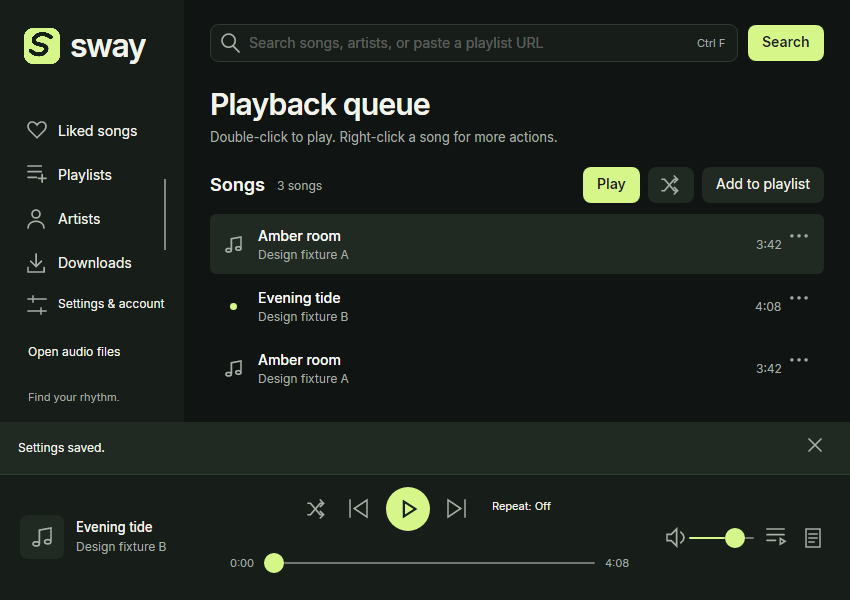
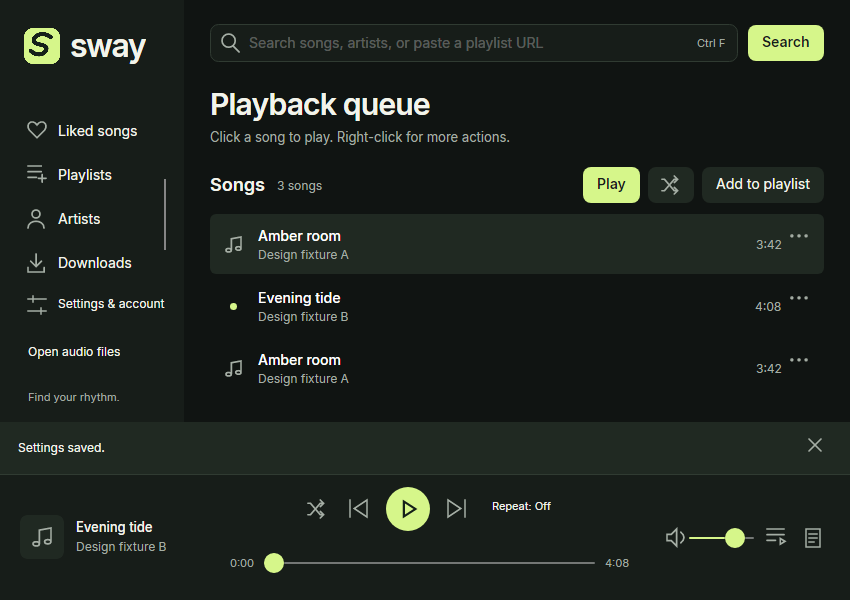
singel click

Changed region(s): [[0.2447, 0.21, 0.6729, 0.24]]

diff --git a/tests/SwayMusic.Tests/ArtistUiTests.cs b/tests/SwayMusic.Tests/ArtistUiTests.cs
@@ -22,14 +22,36 @@ internal static class ArtistUiTests
         try
         {
             window.Show(); Await(model.InitializeAsync()); window.Width = 1280; window.Height = 800; Flush();
-            model.Tracks.Add(new(new Track("song-before", "Song before navigation", "Fixture Artist", Artists: [new("Fixture Artist", "UC_fixture")])));
+            model.Tracks.Add(new(new Track("song-before-click", "Song before navigation", "Fixture Artist", Artists: [new("Fixture Artist", "UC_fixture")])));
             Flush();
+            var tracks = window.FindControl<ListBox>("TrackList")!;
+            tracks.SelectedIndex = 0; Flush();
+            Check(model.Player.Queue.Count == 0, "selection alone does not start playback");
+            var action = tracks.GetVisualDescendants().OfType<Button>().First(button => button.Tag is TrackRow);
+            Click(window, action);
+            Check(model.Player.Queue.Count == 0, "song action button does not start playback");
+            tracks.ContextMenu!.Close(); Flush();
+            Click(window, tracks.GetVisualDescendants().OfType<TextBlock>().First(text => text.Text == "Song before navigation"), MouseButton.Right);
+            Check(model.Player.Queue.Count == 0, "right-clicking a song opens actions without starting playback");
+            tracks.ContextMenu.Close(); Flush();
+            Click(window, tracks.GetVisualDescendants().OfType<TextBlock>().First(text => text.Text == "Song before navigation"));
+            try { Await(((AsyncCommand)model.PlaySelectedCommand).RunningTask); } catch (ArgumentException) { }
+            Check(model.Player.CurrentTrack?.Id == "song-before-click", "one click on a song starts that song");
+            model.Player.RestoreQueue([]); Flush();
             var link = window.FindControl<ListBox>("TrackList")!.GetVisualDescendants().OfType<Button>()
                 .First(button => button.Tag is ArtistReference { Id: "UC_fixture" });
             Click(window, link); Wait(() => model.IsArtistPage && !model.Busy);
             Check(model.PageTitle == "Fixture Artist" && model.HasArtistDescription && model.ArtistStats.Contains("monthly listeners"), "artist link opens the detailed artist profile");
             Check(handler.SearchCount == 0 && model.Player.Queue.Count == 0, "artist link uses its ID without searching or starting playback");
             Check(model.Tracks.Count == 3 && model.HasArtistCatalog, "artist page shows songs and browsable releases");
+            Click(window, window.FindControl<ListBox>("ArtistTrackList")!.GetVisualDescendants().OfType<TextBlock>().First(text => text.Text == "Second song"));
+            try { Await(((AsyncCommand)model.PlaySelectedCommand).RunningTask); } catch (ArgumentException) { }
+            Check(model.Player.Queue.Count == 3 && model.Player.CurrentIndex == 1, "one click on an artist song starts the clicked row in its collection");
+            Click(window, window.FindControl<ListBox>("QueueList")!.GetVisualDescendants().OfType<TextBlock>().First(text => text.Text == "Third song"));
+            Await(model.Player.StopAsync());
+            Check(model.Player.Queue.Count == 3 && model.Player.CurrentIndex == 2, "one click in the queue starts that entry without replacing the queue");
+            model.Player.RestoreQueue([]); Flush();
+            model.DismissStatusCommand.Execute(null); Flush();
             Wait(() => model.ArtistArtwork is not null);
             Check(model.ArtistCatalog[0].Artwork is null, "catalog artwork stays deferred until the releases tab opens");
             Capture(window, "sway-artist-profile.png");
@@ -69,11 +91,11 @@ internal static class ArtistUiTests
         while (!condition()) { if (time.Elapsed.TotalSeconds > 15) throw new TimeoutException("Artist UI did not complete"); Flush(); Thread.Sleep(1); }
         Flush();
     }
-    private static void Click(Window window, Control control)
+    private static void Click(Window window, Control control, MouseButton button = MouseButton.Left)
     {
         control.BringIntoView(); Flush();
         var point = control.TranslatePoint(new Point(control.Bounds.Width / 2, control.Bounds.Height / 2), window)!.Value;
-        window.MouseMove(point, RawInputModifiers.None); window.MouseDown(point, MouseButton.Left, RawInputModifiers.None); window.MouseUp(point, MouseButton.Left, RawInputModifiers.None); Flush();
+        window.MouseMove(point, RawInputModifiers.None); window.MouseDown(point, button, RawInputModifiers.None); window.MouseUp(point, button, RawInputModifiers.None); Flush();
     }
     private static void Capture(Window window, string name)
     {

diff --git a/src/SwayMusic.Desktop/MainWindow.axaml.cs b/src/SwayMusic.Desktop/MainWindow.axaml.cs
@@ -80,9 +80,18 @@ public partial class MainWindow : Window
     {
         if (args.Key == Key.Enter) { _viewModel.SearchCommand.Execute(null); args.Handled = true; }
     }
-    private void TrackDoubleTapped(object? sender, TappedEventArgs args)
+    private static TrackRow? TappedSong(object? sender, TappedEventArgs args)
     {
-        if (args.Source is Control control && (control is Button || control.GetVisualAncestors().OfType<Button>().Any())) return;
+        if (sender is not ListBox list || args.Source is not Control source) return null;
+        if (source is Button || source.GetVisualAncestors().OfType<Button>().Any()) return null;
+        var item = source as ListBoxItem ?? source.GetVisualAncestors().OfType<ListBoxItem>().FirstOrDefault();
+        return item?.DataContext is TrackRow row && list.Items.Contains(row) ? row : null;
+    }
+    private void TrackTapped(object? sender, TappedEventArgs args)
+    {
+        if (TappedSong(sender, args) is not { } row) return;
+        args.Handled = true;
+        _viewModel.SelectedTrack = row;
         _viewModel.PlaySelectedCommand.Execute(null);
     }
     private async void ArtistNameClicked(object? sender, RoutedEventArgs args)
@@ -108,22 +117,30 @@ public partial class MainWindow : Window
         catch (OperationCanceledException) { }
         catch (Exception error) { _viewModel.ReportError(error); }
     }
-    private async void QueueDoubleTapped(object? sender, TappedEventArgs args)
+    private async void QueueTapped(object? sender, TappedEventArgs args)
     {
-        if (args.Source is Control control && (control is Button || control.GetVisualAncestors().OfType<Button>().Any())) return;
+        if (TappedSong(sender, args) is not { } row) return;
+        args.Handled = true;
+        _viewModel.SelectedQueueTrack = row;
         try { await _viewModel.PlayQueueSelectedAsync(); }
         catch (OperationCanceledException) { }
         catch (Exception error) { _viewModel.ReportError(error); }
     }
     private void TrackContextRequested(object? sender, ContextRequestedEventArgs args)
     {
+        if (sender is ListBox { ContextMenu: { } menu }) menu.PlacementTarget = null;
         if (args.Source is Control { DataContext: TrackRow row }) _viewModel.SelectedTrack = row;
     }
     private void RowActionsClicked(object? sender, RoutedEventArgs args)
     {
         if (sender is not Button { Tag: TrackRow row } button) return;
         _viewModel.SelectedTrack = row;
-        (_viewModel.IsArtistPage ? ArtistTrackList : TrackList).ContextMenu?.Open(button);
+        var list = _viewModel.IsArtistPage ? ArtistTrackList : TrackList;
+        if (list.ContextMenu is { } menu)
+        {
+            menu.PlacementTarget = button;
+            menu.Open(list);
+        }
     }
     private void TrackMenuClicked(object? sender, RoutedEventArgs args)
     {

diff --git a/src/SwayMusic.Desktop/ViewModels/MainViewModel.cs b/src/SwayMusic.Desktop/ViewModels/MainViewModel.cs
@@ -338,7 +338,7 @@ public sealed partial class MainViewModel : ObservableObject, IAsyncDisposable
 
     private void ShowLocal(string kind)
     {
-        SetPage(kind, kind switch { "likes" => "Liked songs", "history" => "Listening history", "queue" => "Playback queue", _ => "Downloads" }, "Double-click to play. Right-click a song for more actions.");
+        SetPage(kind, kind switch { "likes" => "Liked songs", "history" => "Listening history", "queue" => "Playback queue", _ => "Downloads" }, "Click a song to play. Right-click for more actions.");
         ShowTracksFor(kind switch
         {
             "likes" => _library.State.LikedTracks,

diff --git a/README.md b/README.md
@@ -8,7 +8,7 @@ Playback now first uses Metrolist's visitor-backed native extraction fast path. 
 
 Open `artifacts/SwayMusic-win-x64/SwayMusic.exe`. This is the single current release folder. Keep its supporting files and `tools` directory together. The release includes .NET; no installer or administrator rights are required. If an archive is explicitly requested, extract it before opening the executable.
 
-Search YouTube Music, double-click a track to play, or open local AAC/M4A, MP3, WAV, FLAC and other Windows-supported audio. Paste a YouTube Music playlist URL into Search to browse its songs. Home loads online recommendations when selected; startup restores the local session without starting playback or blocking on the network. The queue, shuffle/repeat, volume, seeking, offline downloads, local playlists, liked songs, history and LRCLIB lyrics are available from the window. Windows media controls expose metadata and transport actions.
+Search YouTube Music, click a track to play, or open local AAC/M4A, MP3, WAV, FLAC and other Windows-supported audio. Paste a YouTube Music playlist URL into Search to browse its songs. Home loads online recommendations when selected; startup restores the local session without starting playback or blocking on the network. The queue, shuffle/repeat, volume, seeking, offline downloads, local playlists, liked songs, history and LRCLIB lyrics are available from the window. Windows media controls expose metadata and transport actions.
 
 Use the shuffle symbol beside a collection's Play button to start at a random song. Click an artist name below a song or in the player to open their profile, with artwork and Songs, Releases & more, and About tabs. Profile details come from YouTube Music when available.
 
